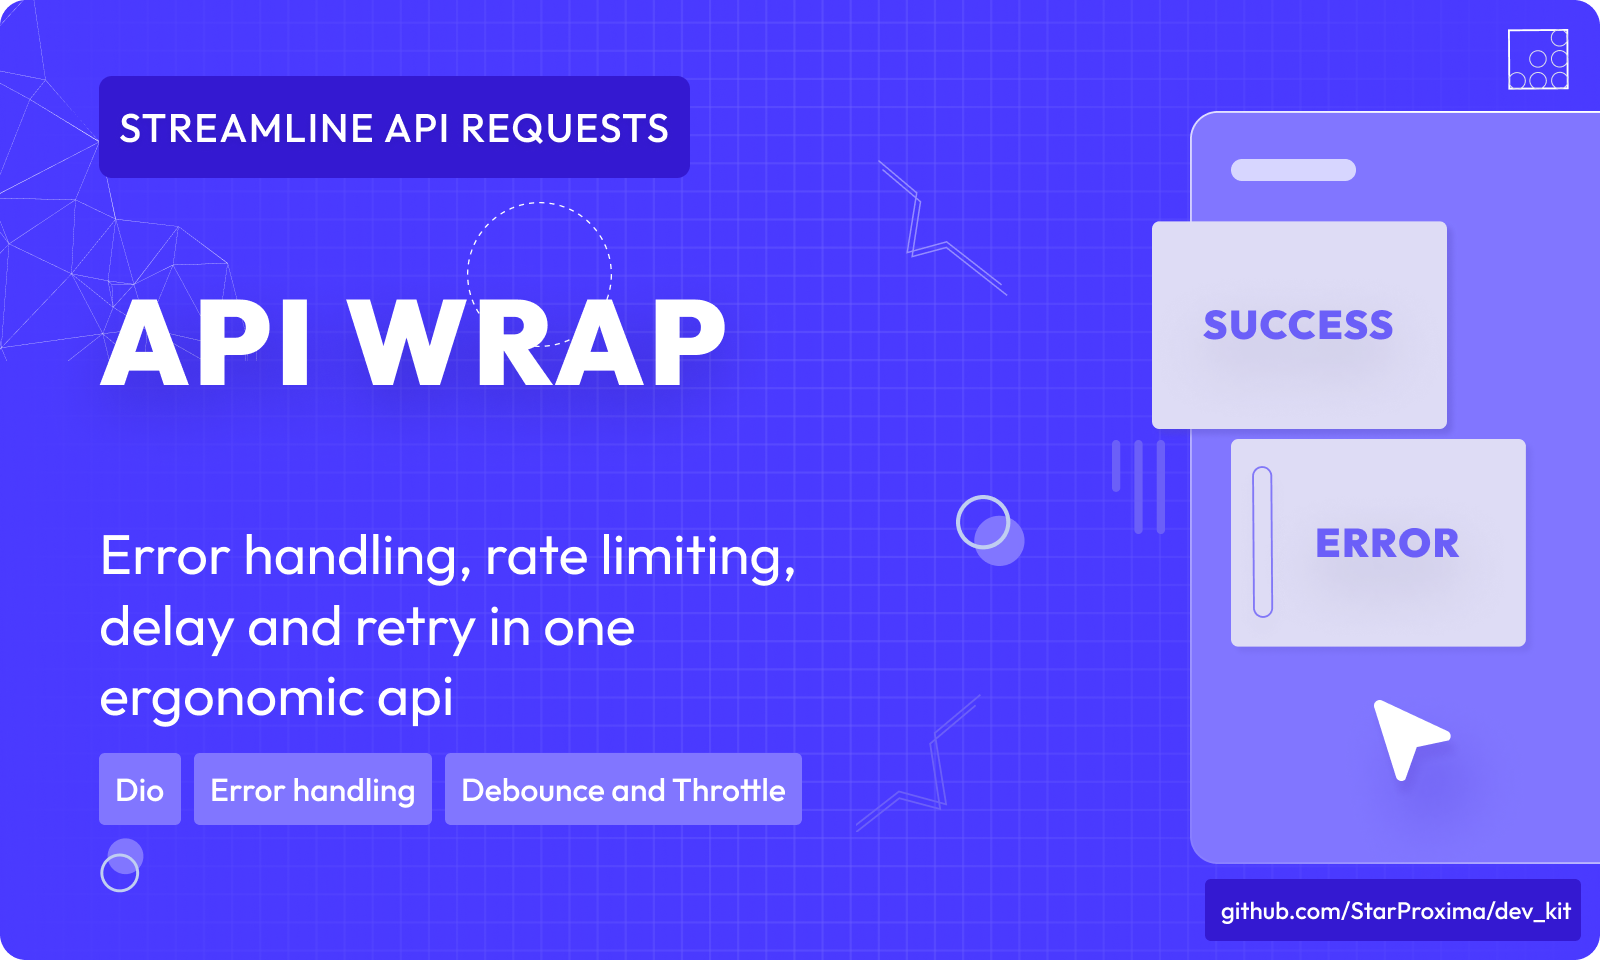
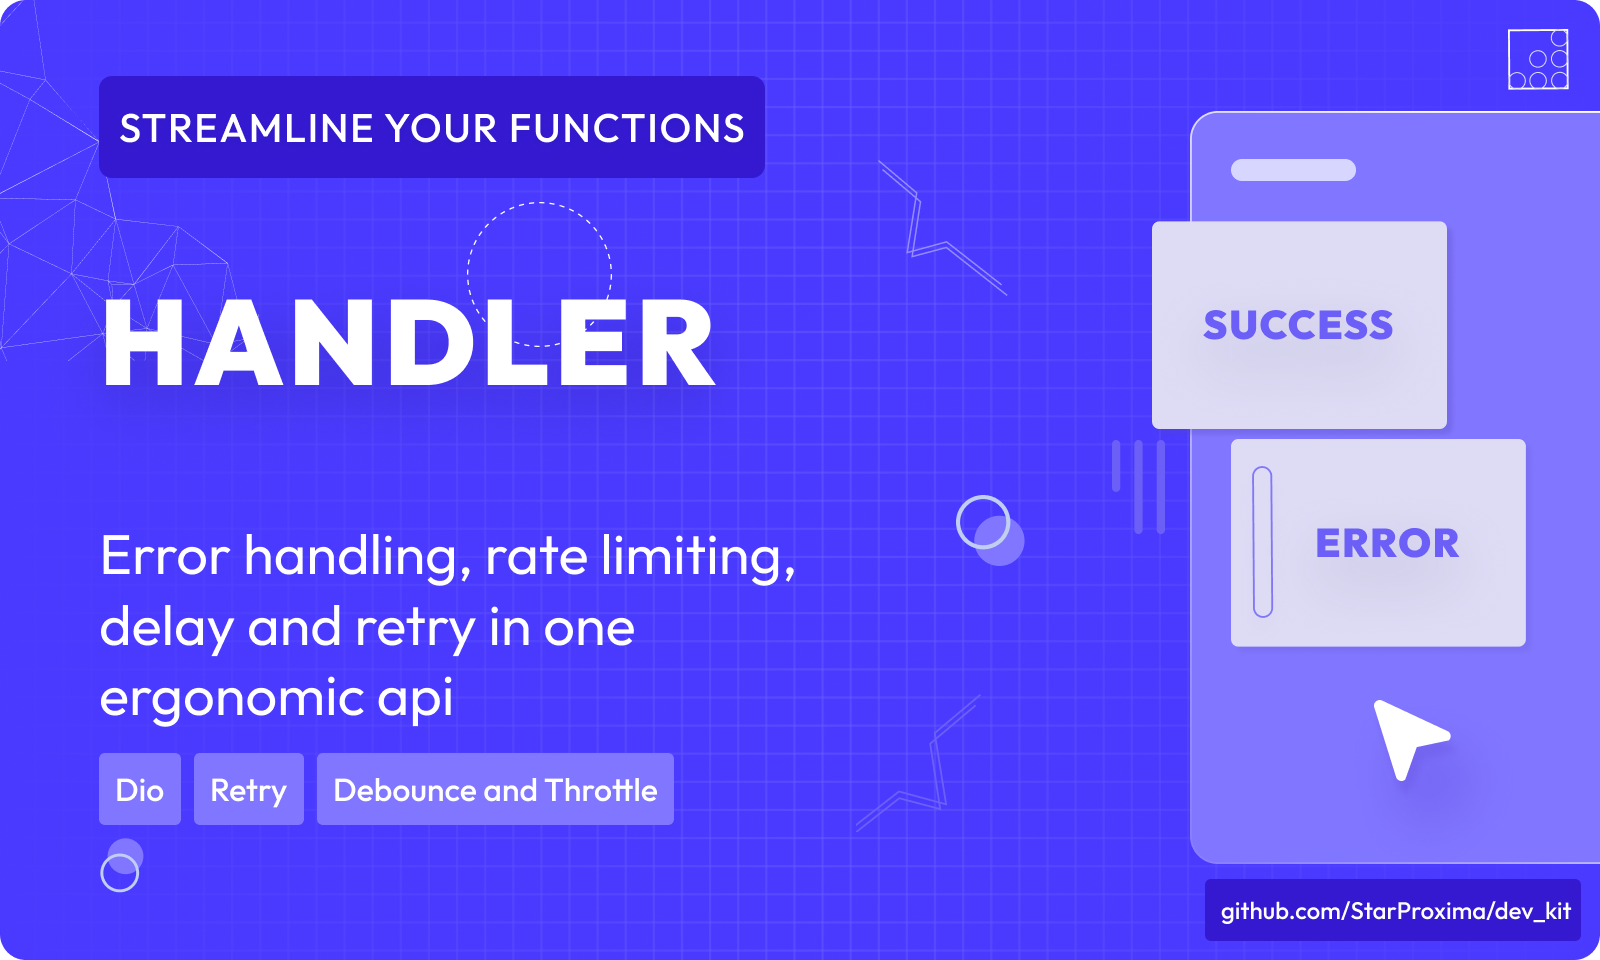
Polishing

Changed region(s): [[0.0625, 0.3125, 0.4688, 0.4062], [0.125, 0.7812, 0.5, 0.875], [0.2188, 0.0625, 0.5, 0.1875]]

diff --git a/handler/lib/src/retry/retry_stats.dart b/handler/lib/src/retry/retry_stats.dart
@@ -6,7 +6,8 @@ class RetryStats {
   RetryStats({
     required this.key,
     required this.options,
-    required this.attempt,
+    required this.currentAttempt,
+    required this.failedAttempts,
     required this.delayBeforePreviosAttempt,
     required this.delayBeforeNextAttempt,
     required this.startTime,
@@ -22,7 +23,10 @@ class RetryStats {
   final RetryOptions options;
 
   /// Current attempt (starting from 1).
-  final int attempt;
+  final int currentAttempt;
+
+  /// Number of failed attempts.
+  final int failedAttempts;
 
   /// Delay before the current attempt.
   final Duration? delayBeforePreviosAttempt;
@@ -67,10 +71,10 @@ class RetryStats {
           delayBeforeNextAttempt.inMicroseconds;
 
   /// Number of remaining attempts.
-  int get attemptsLeft => options.maxAttempts - attempt;
+  int get attemptsLeft => options.maxAttempts - currentAttempt;
 
   /// Is first attempt
-  bool get isFirstAttempt => attempt == 1;
+  bool get isFirstAttempt => currentAttempt == 1;
 
   /// Whether there are remaining attempts.
   bool get hasAttempts => attemptsLeft > 0;
@@ -79,7 +83,8 @@ class RetryStats {
   RetryStats copyWith({
     Object? key,
     RetryOptions? options,
-    int? attempt,
+    int? currentAttempt,
+    int? failedAttempts,
     Duration? delayBeforePreviosAttempt,
     Duration? delayBeforeNextAttempt,
     DateTime? startTime,
@@ -90,7 +95,8 @@ class RetryStats {
     return RetryStats(
       key: key ?? this.key,
       options: options ?? this.options,
-      attempt: attempt ?? this.attempt,
+      currentAttempt: currentAttempt ?? this.currentAttempt,
+      failedAttempts: failedAttempts ?? this.failedAttempts,
       delayBeforePreviosAttempt:
           delayBeforePreviosAttempt ?? this.delayBeforePreviosAttempt,
       delayBeforeNextAttempt:
@@ -100,5 +106,33 @@ class RetryStats {
       willRetry: willRetry ?? _willRetry,
       isRetryCanceled: isRetryCanceled ?? this.isRetryCanceled,
     );
+  }
+
+  @override
+  String toString() =>
+      'RetryStats(key: $key, currentAttempt: $currentAttempt, failedAttempts: $failedAttempts, delayBeforeNextAttempt: $delayBeforeNextAttempt, elapsedTotalTime: $elapsedTotalTime, willRetry: $willRetry)';
+
+  @override
+  int get hashCode => Object.hash(
+        key,
+        options,
+        currentAttempt,
+        failedAttempts,
+        delayBeforeNextAttempt,
+        elapsedTotalTime,
+      );
+
+  @override
+  bool operator ==(Object other) {
+    if (identical(this, other)) return true;
+    if (other is! RetryStats) return false;
+    return key == other.key &&
+        options == other.options &&
+        currentAttempt == other.currentAttempt &&
+        failedAttempts == other.failedAttempts &&
+        delayBeforeNextAttempt == other.delayBeforeNextAttempt &&
+        elapsedTotalTime == other.elapsedTotalTime &&
+        willRetry == other.willRetry &&
+        isRetryCanceled == other.isRetryCanceled;
   }
 }

diff --git a/handler/lib/src/retry/delay_stategy.dart b/handler/lib/src/retry/delay_stategy.dart
@@ -88,7 +88,7 @@ class ExponentialDelayStrategy extends DelayStrategy {
     final jitter =
         1.0 + stats.options.randomizationFactor * (_rand.nextDouble() * 2 - 1);
 
-    final exp = min(stats.attempt, 31); // Prevent overflow
+    final exp = min(stats.currentAttempt, 31); // Prevent overflow
     final delayMs = stats.options.minDelay.inMilliseconds +
         stats.options.delayFactor.inMilliseconds * pow(base, exp) * jitter;
 
@@ -118,7 +118,8 @@ class ListDelayStrategy extends DelayStrategy {
   Duration calculateDelay(RetryStats stats) {
     assert(delays.isNotEmpty, 'The delay list must not be empty');
 
-    final index = stats.attempt - 1; // attempt is 1-based, list is 0-based
+    final index =
+        stats.currentAttempt - 1; // attempt is 1-based, list is 0-based
     if (index < delays.length) {
       return delays[index];
     }
@@ -147,7 +148,9 @@ class LinearDelayStrategy extends DelayStrategy {
         1.0 + stats.options.randomizationFactor * (_rand.nextDouble() * 2 - 1);
 
     final delayMs = stats.options.minDelay.inMilliseconds +
-        stats.options.delayFactor.inMilliseconds * stats.attempt * jitter;
+        stats.options.delayFactor.inMilliseconds *
+            stats.currentAttempt *
+            jitter;
 
     final resultMs = min(delayMs, stats.options.maxDelay.inMilliseconds);
 
@@ -248,7 +251,7 @@ class SqrtDelayStrategy extends DelayStrategy {
     final jitter =
         1.0 + stats.options.randomizationFactor * (_rand.nextDouble() * 2 - 1);
 
-    final rootValue = pow(stats.attempt, 1 / rootDegree);
+    final rootValue = pow(stats.currentAttempt, 1 / rootDegree);
     final delayMs = stats.options.minDelay.inMilliseconds +
         stats.options.delayFactor.inMilliseconds * rootValue * jitter;
 

diff --git a/handler/test/delay_strategy_test.dart b/handler/test/delay_strategy_test.dart
@@ -16,7 +16,8 @@ void main() {
       return RetryStats(
         key: 'test',
         options: options,
-        attempt: attempt,
+        currentAttempt: attempt,
+        failedAttempts: attempt - 1,
         delayBeforePreviosAttempt: Duration.zero,
         delayBeforeNextAttempt: Duration.zero,
         startTime: DateTime.now(),
@@ -184,7 +185,7 @@ void main() {
     test('custom strategy uses provided function', () {
       // Кастомная функция расчета задержки: умножаем номер попытки на 75 мс
       final customStrategy = DelayStrategy.custom((stats) {
-        return Duration(milliseconds: stats.attempt * 75);
+        return Duration(milliseconds: stats.currentAttempt * 75);
       });
 
       final stats1 = createStats(1);
@@ -219,7 +220,8 @@ void main() {
         return RetryStats(
           key: 'test',
           options: optionsWithLowMax,
-          attempt: attempt,
+          currentAttempt: attempt,
+          failedAttempts: attempt - 1,
           delayBeforePreviosAttempt: Duration.zero,
           delayBeforeNextAttempt: Duration.zero,
           startTime: DateTime.now(),

diff --git a/handler/test/retry_test.dart b/handler/test/retry_test.dart
@@ -92,7 +92,7 @@ void main() {
         delayFactor: Duration.zero,
         retryIf: (error, stackTrace, stats) {
           // Only retry on even attempt numbers
-          return stats.attempt < 2;
+          return stats.currentAttempt < 2;
         },
       );
 
@@ -422,9 +422,9 @@ void main() {
       expect(attemptStats.length, equals(3));
 
       // Check attempt counters
-      expect(attemptStats[0].attempt, equals(1));
-      expect(attemptStats[1].attempt, equals(2));
-      expect(attemptStats[2].attempt, equals(3));
+      expect(attemptStats[0].currentAttempt, equals(1));
+      expect(attemptStats[1].currentAttempt, equals(2));
+      expect(attemptStats[2].currentAttempt, equals(3));
 
       // Check that time is increasing
       expect(
@@ -464,7 +464,7 @@ void main() {
       expect(errors[0], same(testError));
       expect(stackTraces.length, equals(2));
       expect(failStats.length, equals(2));
-      expect(failStats[0].attempt, equals(1));
+      expect(failStats[0].currentAttempt, equals(1));
     });
 
     test('willRetry is correctly set in stats', () async {

diff --git a/handler/lib/src/retry/retry_options.dart b/handler/lib/src/retry/retry_options.dart
@@ -46,4 +46,24 @@ class RetryOptions {
       maxTotalTime: maxTotalTime ?? this.maxTotalTime,
     );
   }
+
+  @override
+  String toString() =>
+      'RetryOptions(maxAttempts: $maxAttempts, delayFactor: $delayFactor, minDelay: $minDelay, maxDelay: $maxDelay, randomizationFactor: $randomizationFactor, maxTotalTime: $maxTotalTime)';
+
+  @override
+  int get hashCode => Object.hash(maxAttempts, delayFactor, minDelay, maxDelay,
+      randomizationFactor, maxTotalTime);
+
+  @override
+  bool operator ==(Object other) {
+    if (identical(this, other)) return true;
+    if (other is! RetryOptions) return false;
+    return maxAttempts == other.maxAttempts &&
+        delayFactor == other.delayFactor &&
+        minDelay == other.minDelay &&
+        maxDelay == other.maxDelay &&
+        randomizationFactor == other.randomizationFactor &&
+        maxTotalTime == other.maxTotalTime;
+  }
 }

diff --git a/handler/lib/src/retry/retry.dart b/handler/lib/src/retry/retry.dart
@@ -129,7 +129,8 @@ class Retry {
         var stats = RetryStats(
           key: key,
           options: options,
-          attempt: attempt,
+          currentAttempt: attempt,
+          failedAttempts: attempt - 1,
           delayBeforePreviosAttempt: lastDelay,
           delayBeforeNextAttempt: Duration.zero,
           startTime: startTime,
@@ -158,6 +159,7 @@ class Retry {
           return res;
         } on Object catch (e, s) {
           stats = stats.copyWith(
+            failedAttempts: attempt,
             elapsedTotalTime: stopwatch.elapsed,
             isRetryCanceled: !_activeRetries.contains(key),
           );

diff --git a/handler/example/lib/src/buttons/retry_button.dart b/handler/example/lib/src/buttons/retry_button.dart
@@ -15,7 +15,7 @@ class RetryButton extends StatefulWidget {
 class _RetryButtonState extends State<RetryButton> {
   RetryStats? retryStats;
 
-  int get attempt => retryStats?.attempt ?? 0;
+  int get attempt => retryStats?.currentAttempt ?? 0;
 
   bool isLoading = false;
 
@@ -24,7 +24,7 @@ class _RetryButtonState extends State<RetryButton> {
     return Column(
       children: [
         const SizedBox(height: 16),
-        Text('Attemt: ${retryStats?.attempt ?? 0}'),
+        Text('Attemt: ${retryStats?.currentAttempt ?? 0}'),
         AppButton(
           onTap: () async {
             await handler.handle(

diff --git a/handler/lib/src/retry/retry_if.dart b/handler/lib/src/retry/retry_if.dart
@@ -33,8 +33,9 @@ class RequestRetryException implements Exception {
   /// Optional message explaining why a retry is needed.
   final String? message;
 
-  RequestRetryException(this.message);
+  const RequestRetryException([this.message]);
 
   @override
-  String toString() => 'ShouldRetry${message != null ? ':$message' : ''}';
+  String toString() =>
+      'RequestRetryException${message != null ? ': $message' : ''}';
 }

diff --git a/handler/lib/src/handler_facade.dart b/handler/lib/src/handler_facade.dart
@@ -5,6 +5,10 @@ import 'rate_limiter/rate_limiter.dart';
 import 'retry/retry.dart';
 import 'utils.dart';
 
+/// Mixin / Interface for adding handler methods to a class.
+///
+/// Provides a unified interface for handling operations with a handler for
+/// simplifying the usage handler methods.
 abstract mixin class HandlerFacade<BaseResponseError> {
   Handler<BaseResponseError> get handler;
 }

diff --git a/handler/README.md b/handler/README.md
@@ -1,12 +1,12 @@
 # Handler
 
-![Package Thumbnail](https://github.com/user-attachments/assets/2f549930-5647-4361-a53c-92f2bd94b30c)
+![package_thumbnail](https://github.com/user-attachments/assets/3db4e8c8-8753-4108-862a-ba16fc073511)
 
 > **The ultimate solution for robust, clean, and UX-friendly API operations in Flutter apps**
 
 Handler radically simplifies how you work with HTTP requests and async operations by providing a unified API that elegantly solves common challenges:
 
-- ✅ **Error management** - centralized with type safety
+- ✅ **Error management** - centralized and customizable with type safety
 - ✅ **Auto-retry** - seamless recovery from failures
 - ✅ **Rate-limiting** - optimized frequency control
 - ✅ **Operation control** - cancel or trigger operations on demand

diff --git a/handler/CHANGELOG.md b/handler/CHANGELOG.md
@@ -1,3 +1,3 @@
-## 0.0.1
+## 1.0.0
 
-- Initial version.
+- First stable release.
